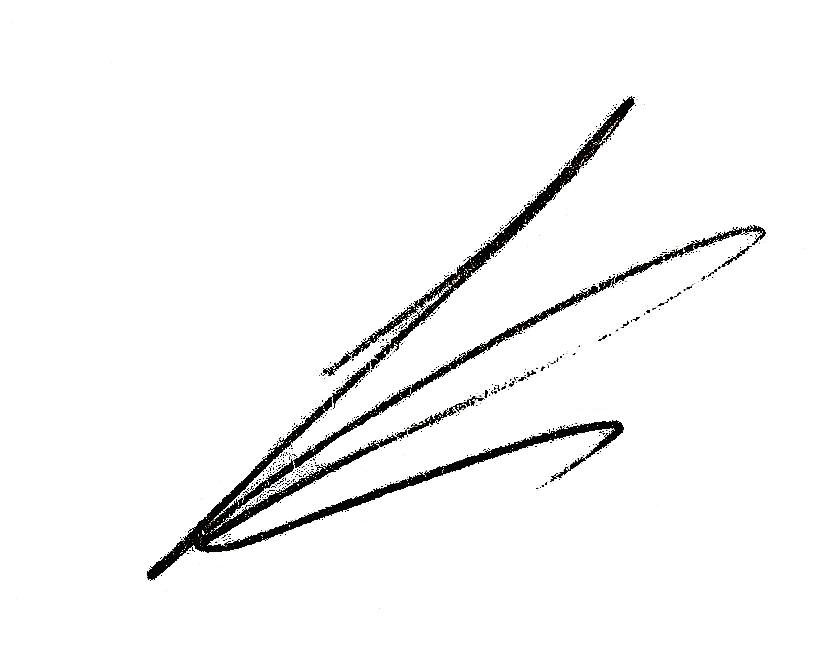
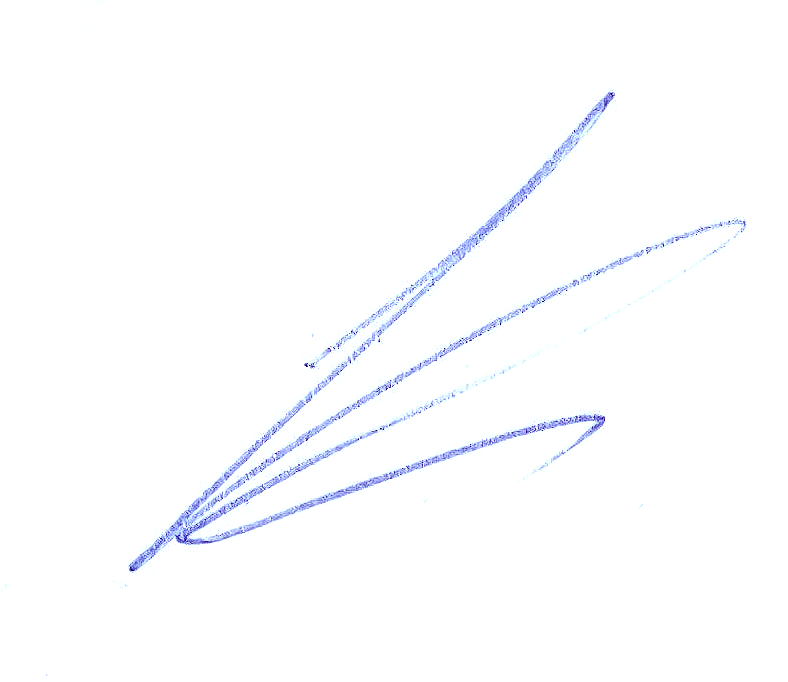
fixed signatures

Changed region(s): [[0.1523, 0.1196, 0.9442, 0.867], [0.731, 0.4783, 0.7614, 0.5082], [0.6701, 0.6876, 0.7005, 0.7175]]

diff --git a/converter/static/css/style.css b/converter/static/css/style.css
@@ -1,1 +1,1 @@
-/*! normalize.css v8.0.1 | MIT License | github.com/necolas/normalize.css */html{line-height:1.15;-webkit-text-size-adjust:100%}body{margin:0}main{display:block}h1{font-size:2em;margin:0.67em 0}hr{box-sizing:content-box;height:0;overflow:visible}pre{font-family:monospace, monospace;font-size:1em}a{background-color:transparent}abbr[title]{border-bottom:none;text-decoration:underline;text-decoration:underline dotted}b,strong{font-weight:bolder}code,kbd,samp{font-family:monospace, monospace;font-size:1em}small{font-size:80%}sub,sup{font-size:75%;line-height:0;position:relative;vertical-align:baseline}sub{bottom:-0.25em}sup{top:-0.5em}img{border-style:none}button,input,optgroup,select,textarea{font-family:inherit;font-size:100%;line-height:1.15;margin:0}button,input{overflow:visible}button,select{text-transform:none}button,[type="button"],[type="reset"],[type="submit"]{-webkit-appearance:button}button::-moz-focus-inner,[type="button"]::-moz-focus-inner,[type="reset"]::-moz-focus-inner,[type="submit"]::-moz-focus-inner{border-style:none;padding:0}button:-moz-focusring,[type="button"]:-moz-focusring,[type="reset"]:-moz-focusring,[type="submit"]:-moz-focusring{outline:1px dotted ButtonText}fieldset{padding:0.35em 0.75em 0.625em}legend{box-sizing:border-box;color:inherit;display:table;max-width:100%;padding:0;white-space:normal}progress{vertical-align:baseline}textarea{overflow:auto}[type="checkbox"],[type="radio"]{box-sizing:border-box;padding:0}[type="number"]::-webkit-inner-spin-button,[type="number"]::-webkit-outer-spin-button{height:auto}[type="search"]{-webkit-appearance:textfield;outline-offset:-2px}[type="search"]::-webkit-search-decoration{-webkit-appearance:none}::-webkit-file-upload-button{-webkit-appearance:button;font:inherit}details{display:block}summary{display:list-item}template{display:none}[hidden]{display:none}*{box-sizing:border-box}html{background-image:url("/static/img/fon3.jpg");background-repeat:no-repeat;background-size:100% 100%}.container{height:100%}.diploma{position:absolute;left:10%;top:10%;width:80%;height:80%;background-color:white}.diploma-title{position:relative;background-position:40% 50%;font-family:serif;background:url("/static/img/bluefon.jpg");-webkit-background-clip:text;background-repeat:no-repeat;-webkit-text-fill-color:transparent;background-size:cover;font-weight:700;font-size:70px;margin-left:22%}.diploma-header{text-align:center;font-family:palatino;font-weight:500;font-size:35px;margin-top:5%}.diploma-text{text-align:center;font-family:palatino;font-weight:400;font-size:20px;margin-top:2%}.diploma-block{display:-webkit-inline-box;width:65%;margin-top:2%;margin-left:280px}.diploma-block__item{width:40%;font-family:palatino;font-weight:700;font-size:25px;color:red}.diploma-signatures{display:-webkit-inline-box;vertical-align:top;width:80%;margin-left:12%;position:absolute;bottom:10%}.diploma-signatures__item{width:40%}.diploma-signatures__item-text{font-family:palatino;font-weight:600;font-size:20px;color:blue}
+/*! normalize.css v8.0.1 | MIT License | github.com/necolas/normalize.css */html{line-height:1.15;-webkit-text-size-adjust:100%}body{margin:0}main{display:block}h1{font-size:2em;margin:0.67em 0}hr{box-sizing:content-box;height:0;overflow:visible}pre{font-family:monospace, monospace;font-size:1em}a{background-color:transparent}abbr[title]{border-bottom:none;text-decoration:underline;text-decoration:underline dotted}b,strong{font-weight:bolder}code,kbd,samp{font-family:monospace, monospace;font-size:1em}small{font-size:80%}sub,sup{font-size:75%;line-height:0;position:relative;vertical-align:baseline}sub{bottom:-0.25em}sup{top:-0.5em}img{border-style:none}button,input,optgroup,select,textarea{font-family:inherit;font-size:100%;line-height:1.15;margin:0}button,input{overflow:visible}button,select{text-transform:none}button,[type="button"],[type="reset"],[type="submit"]{-webkit-appearance:button}button::-moz-focus-inner,[type="button"]::-moz-focus-inner,[type="reset"]::-moz-focus-inner,[type="submit"]::-moz-focus-inner{border-style:none;padding:0}button:-moz-focusring,[type="button"]:-moz-focusring,[type="reset"]:-moz-focusring,[type="submit"]:-moz-focusring{outline:1px dotted ButtonText}fieldset{padding:0.35em 0.75em 0.625em}legend{box-sizing:border-box;color:inherit;display:table;max-width:100%;padding:0;white-space:normal}progress{vertical-align:baseline}textarea{overflow:auto}[type="checkbox"],[type="radio"]{box-sizing:border-box;padding:0}[type="number"]::-webkit-inner-spin-button,[type="number"]::-webkit-outer-spin-button{height:auto}[type="search"]{-webkit-appearance:textfield;outline-offset:-2px}[type="search"]::-webkit-search-decoration{-webkit-appearance:none}::-webkit-file-upload-button{-webkit-appearance:button;font:inherit}details{display:block}summary{display:list-item}template{display:none}[hidden]{display:none}*{box-sizing:border-box}html{background-image:url("/static/img/fon3.jpg");background-repeat:no-repeat;background-size:100% 100%}.container{height:100%}.diploma{position:absolute;left:10%;top:10%;width:80%;height:80%;background-color:white}.diploma-title{position:relative;background-position:40% 50%;font-family:'Fira', sans-serif;background:url("/static/img/bluefon.jpg");-webkit-background-clip:text;background-repeat:no-repeat;-webkit-text-fill-color:transparent;background-size:cover;font-weight:700;font-size:70px;margin-left:24%}.diploma-header{text-align:center;font-family:'Fira', sans-serif;font-weight:500;font-size:38px;margin-top:5%}.diploma-text{text-align:center;font-family:'Fira', sans-serif;font-weight:400;font-size:22px;margin-top:2%}.diploma-block{display:-webkit-inline-box;width:65%;margin-top:2%;margin-left:280px}.diploma-block__item{width:40%;font-family:'Fira', sans-serif;font-weight:700;font-size:28px;color:red}.diploma-signatures{display:-webkit-inline-box;vertical-align:top;width:80%;margin-left:12%;position:absolute;bottom:10%}.diploma-signatures__item{width:40%}.diploma-signatures__item-text{font-family:'Fira', sans-serif;font-weight:600;font-size:22px;color:#2d9cdb}

diff --git a/converter/templates/diploma.html b/converter/templates/diploma.html
@@ -7,6 +7,8 @@
     <!-- Bootstrap CSS -->
     <link rel="stylesheet" href="https://cdnjs.cloudflare.com/ajax/libs/font-awesome/4.7.0/css/font-awesome.min.css">
     <link href="http://127.0.0.1:8000/static/css/style.css" rel="stylesheet">
+    <link href="https://fonts.googleapis.com/css?family=Rubik&display=swap" rel="stylesheet">
+    <link href="https://fonts.googleapis.com/css?family=Fira+Code&display=swap" rel="stylesheet">
     <title>Diploma</title>
     </head>
     <body>
@@ -14,17 +16,17 @@
             <div class="container">
                 <div style="height: 5%;"></div>
                 <div class="diploma-title">СЕРТИФИКАТ</div>
-                <div class="diploma-header"><span style="color:rgb(24, 24, 250);">L</span>EARN <span style="color: orange">P</span>YTHON</div>
-                <div class="diploma-text" style="margin-top: 30px">Настоящий сертификат удостоверяет, что</div>
+                <div class="diploma-header"><span style="color:#2d9cdb;">L</span>EARN <span style="color:#f2c94c">P</span>YTHON</div>
+                <div class="diploma-text" style="margin-top: 5%">Настоящий сертификат удостоверяет, что</div>
                 <div class="diploma-block">
                     <div class="diploma-block__item" style="text-align: right">{{ surname }}</div>
                     <div class="diploma-block__item" style="text-align: left; padding-left: 10px;">{{ name }}</div>
                 </div>
                 <div class="diploma-text">успешно прошёл(-ла) курс по изучению Python с нуля.</div>
-                <div class="diploma-text">Выдан: <span style="color:blue; font-weight: 600;">{{ date }} г.<span></div>
+                <div class="diploma-text" style='margin-top: 3%'>Выдан: <span style="color:#2d9cdb; font-weight: 600;">{{ date }} г.<span></div>
                 <div class="diploma-signatures">
                     <div class="diploma-signatures__item">
-                        <img src="http://127.0.0.1:8000/static/img/Лебедев.jpg" style="width: 150px; height: 150px;">
+                        <img src="http://127.0.0.1:8000/static/img/Лебедев.png" style="width: 150px; height: 150px;">
                         <div class="diploma-signatures__item-text">И.Лебедев</div>
                     </div>
                     <div class="diploma-signatures__item">
